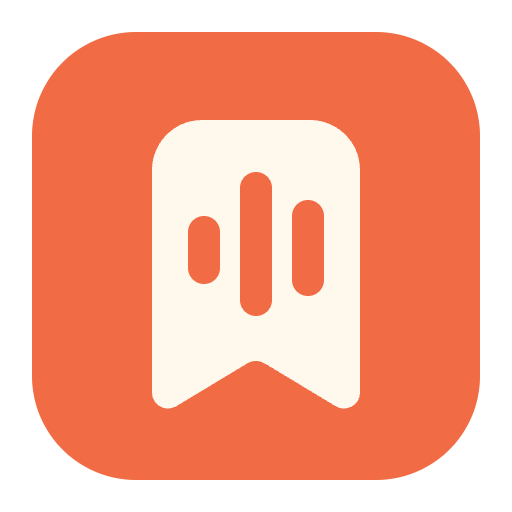
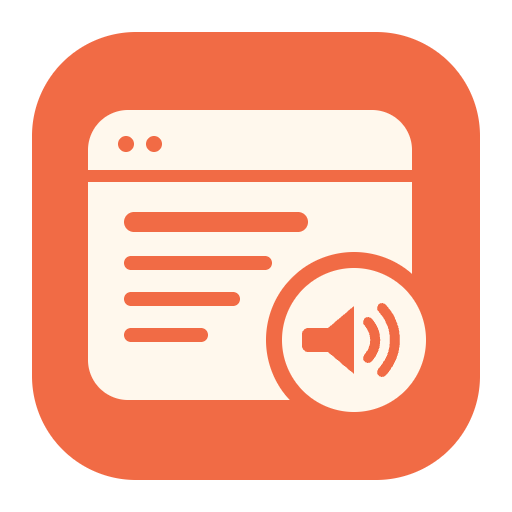
brand: emphasize blog articles converted to speech

Changed region(s): [[0.1562, 0.1875, 0.8438, 0.8125]]

diff --git a/docs/brand/social-preview.html b/docs/brand/social-preview.html
@@ -20,10 +20,10 @@
 </head>
 <body>
   <main class="card">
-    <div class="eyebrow">OPEN SOURCE · HEXO PLUGIN</div>
+    <div class="eyebrow">BLOG TEXT → SPEECH · HEXO PLUGIN</div>
     <div class="identity">
-      <img src="../../assets/brand/icon.png" alt="Orange bookmark with audio waveform">
-      <div><h1>hexo-tts-reader</h1><p class="tagline">Give your words a voice.</p></div>
+      <img src="../../assets/brand/icon.png" alt="Blog article converted to speech">
+      <div><h1>hexo-tts-reader</h1><p class="tagline">Turn your blog posts into speech.</p></div>
     </div>
     <footer><span class="features">Article narration &nbsp; / &nbsp; Edge TTS &nbsp; / &nbsp; No API key</span><span>github.com/xichenx/hexo-tts-reader</span></footer>
   </main>

diff --git a/preview.html b/preview.html
@@ -28,7 +28,7 @@
 </head>
 <body>
 <main>
-  <p class="brand"><img src="assets/brand/icon-64.png" width="32" height="32" alt="">HEXO · READER</p>
+  <p class="brand"><img src="assets/brand/icon-64.png" width="32" height="32" alt="">HEXO · BLOG TEXT TO SPEECH</p>
   <h1>让阅读，多一种方式。</h1>
   <p class="intro">听文章，也照顾阅读的节奏。点击播放、跳转或倍速，体验新的朗读卡片。</p>
   <div class="previews">

diff --git a/docs/brand/README.md b/docs/brand/README.md
@@ -1,8 +1,9 @@
 # Project identity
 
-The **voice bookmark** combines an article bookmark with three audio waveform
-bars. Warm orange (`#F16B45`) and cream (`#FFF8ED`) keep the mark legible at
-small sizes and on both light and dark backgrounds.
+The **speaking blog** combines a browser window, article text lines, and a
+speaking symbol. It represents **blog text converted to speech (TTS)**.
+Warm orange (`#F16B45`) and cream (`#FFF8ED`) keep the mark legible at small
+sizes and on both light and dark backgrounds.
 
 ## Assets
 
@@ -26,10 +27,12 @@ committing the image file. See [GitHub's instructions](https://docs.github.com/e
 
 ## Design source
 
-Concept exploration used the built-in **imagegen** tool. The selected direction
-was then implemented as clean SVG geometry; the PNG assets are browser-rendered
-exports of that SVG, with no generated texture or edge artifacts.
+Initial concept exploration used the built-in **imagegen** tool. The current
+design refines the existing SVG to emphasize blog text-to-speech: a browser
+window holds an article, and a speaker overlaps its lower-right corner. PNG
+assets are browser-rendered exports of the flat-color SVG.
 
-Final concept prompt:
+Earlier color and shape exploration prompt (the bookmark has since been
+replaced by the speaking blog symbol):
 
 > Use case: logo-brand. Design a new finished icon for hexo-tts-reader, an open-source blog article text-to-speech reader. A completely new visual direction: bold warm orange app icon, simple editorial-tech identity. One centered rounded square tile, warm vermilion orange #F16B45, generous rounded corners (about 23% radius), with ONE cream/off-white #FFF8ED bookmark silhouette in the center. The bookmark is a thick vertical rounded-top ribbon with a small clean V-shaped notch at the bottom. Three chunky vertical orange pill cutouts inside the upper-middle of the bookmark form an audio waveform (short, tall, medium), with generous gaps. The bookmark should be wider than usual and occupy about 46% of tile width, 62% height so the waveform remains clear at 24px. This symbolizes saved written articles becoming audio. Make it a polished, extremely simple modern software app icon, memorable and compact. STRICTLY FLAT solid fills, two colors only, absolutely NO gradient, no noise, no fabric, no shadows, no 3D, no thin outlines, no letters or text, no watermark, no open book, no headphones, no external decorations. Transparent outside rounded square, uniform opaque tile inside. Center tile with only 8% outer transparent margin. Exact clean symmetrical geometry and smooth crisp edges. Single icon, not a sheet of alternatives.
